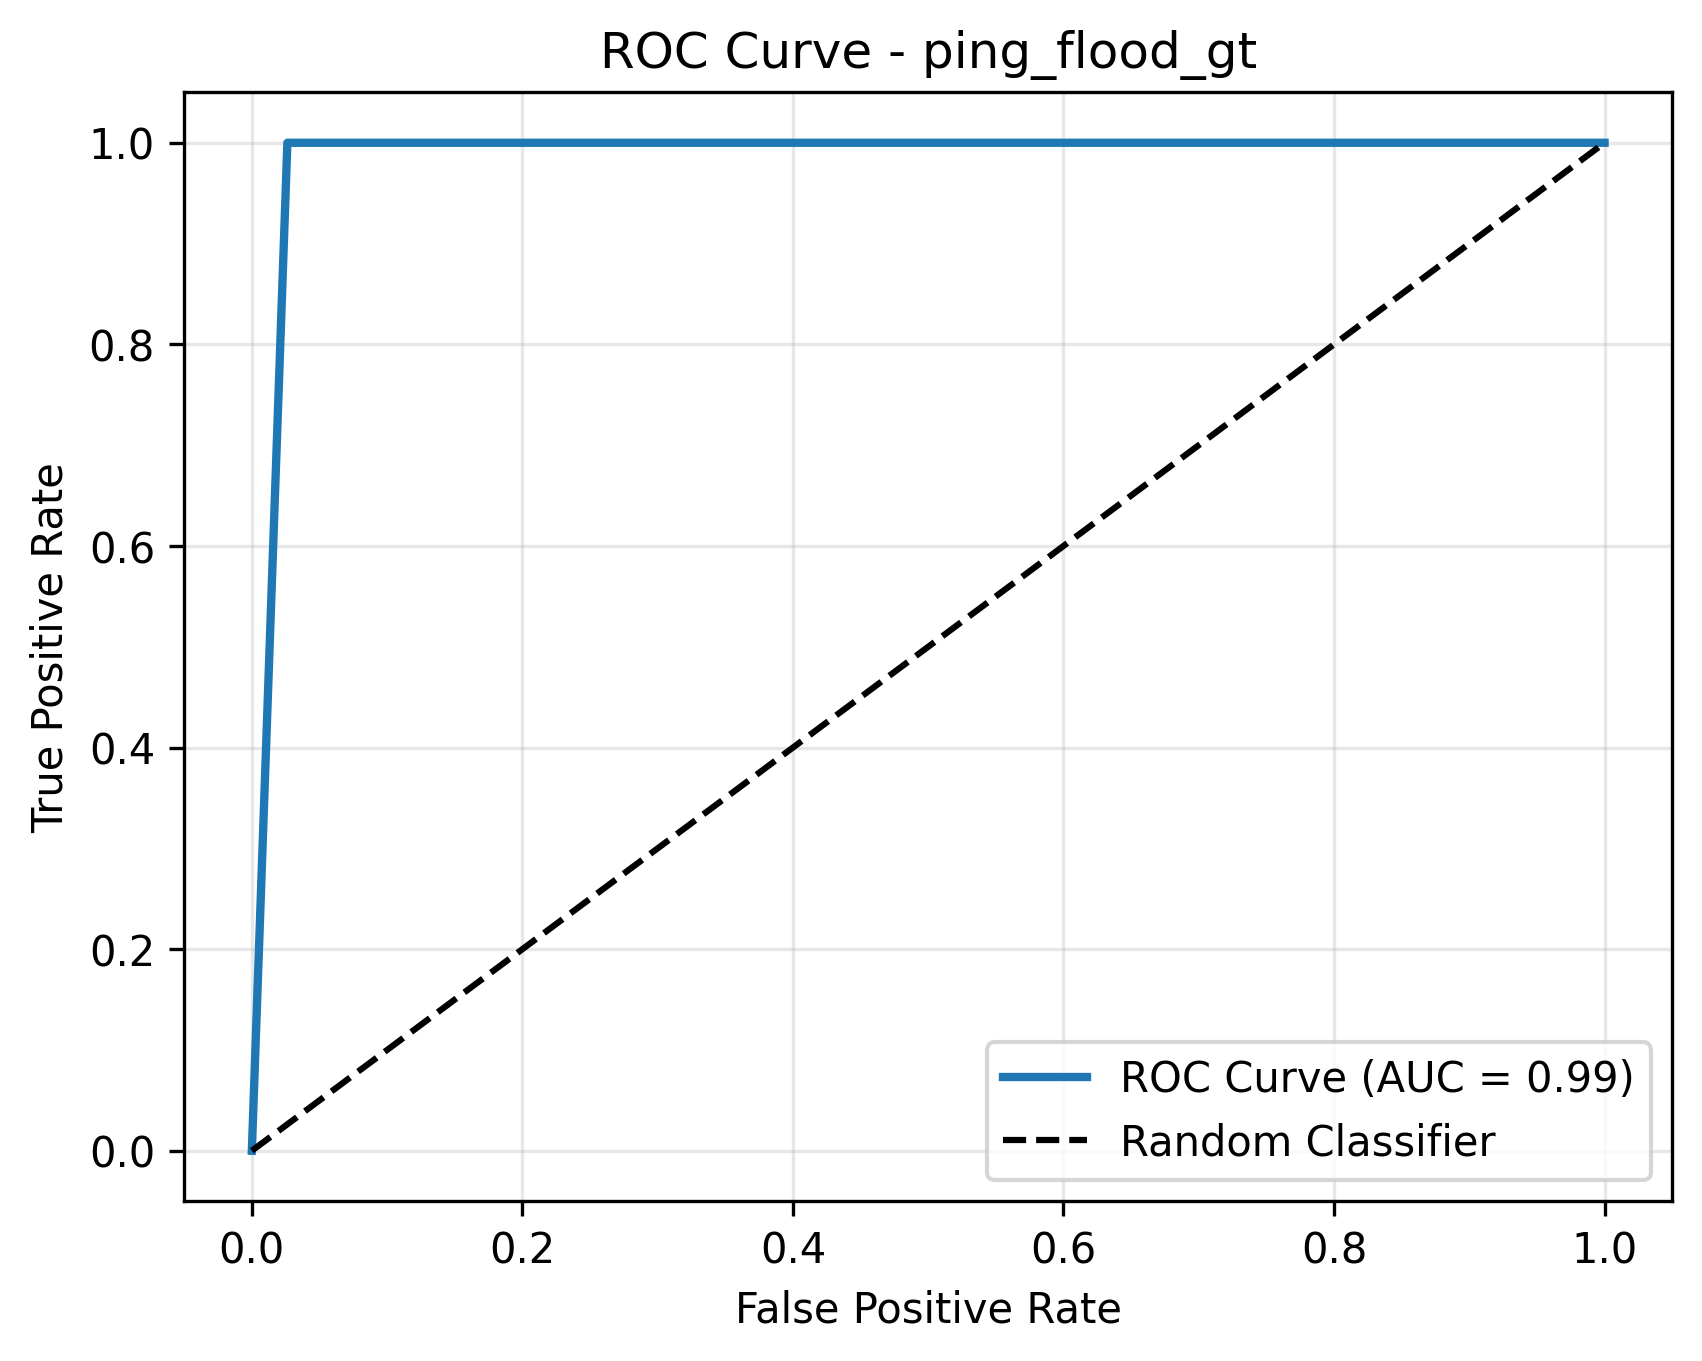
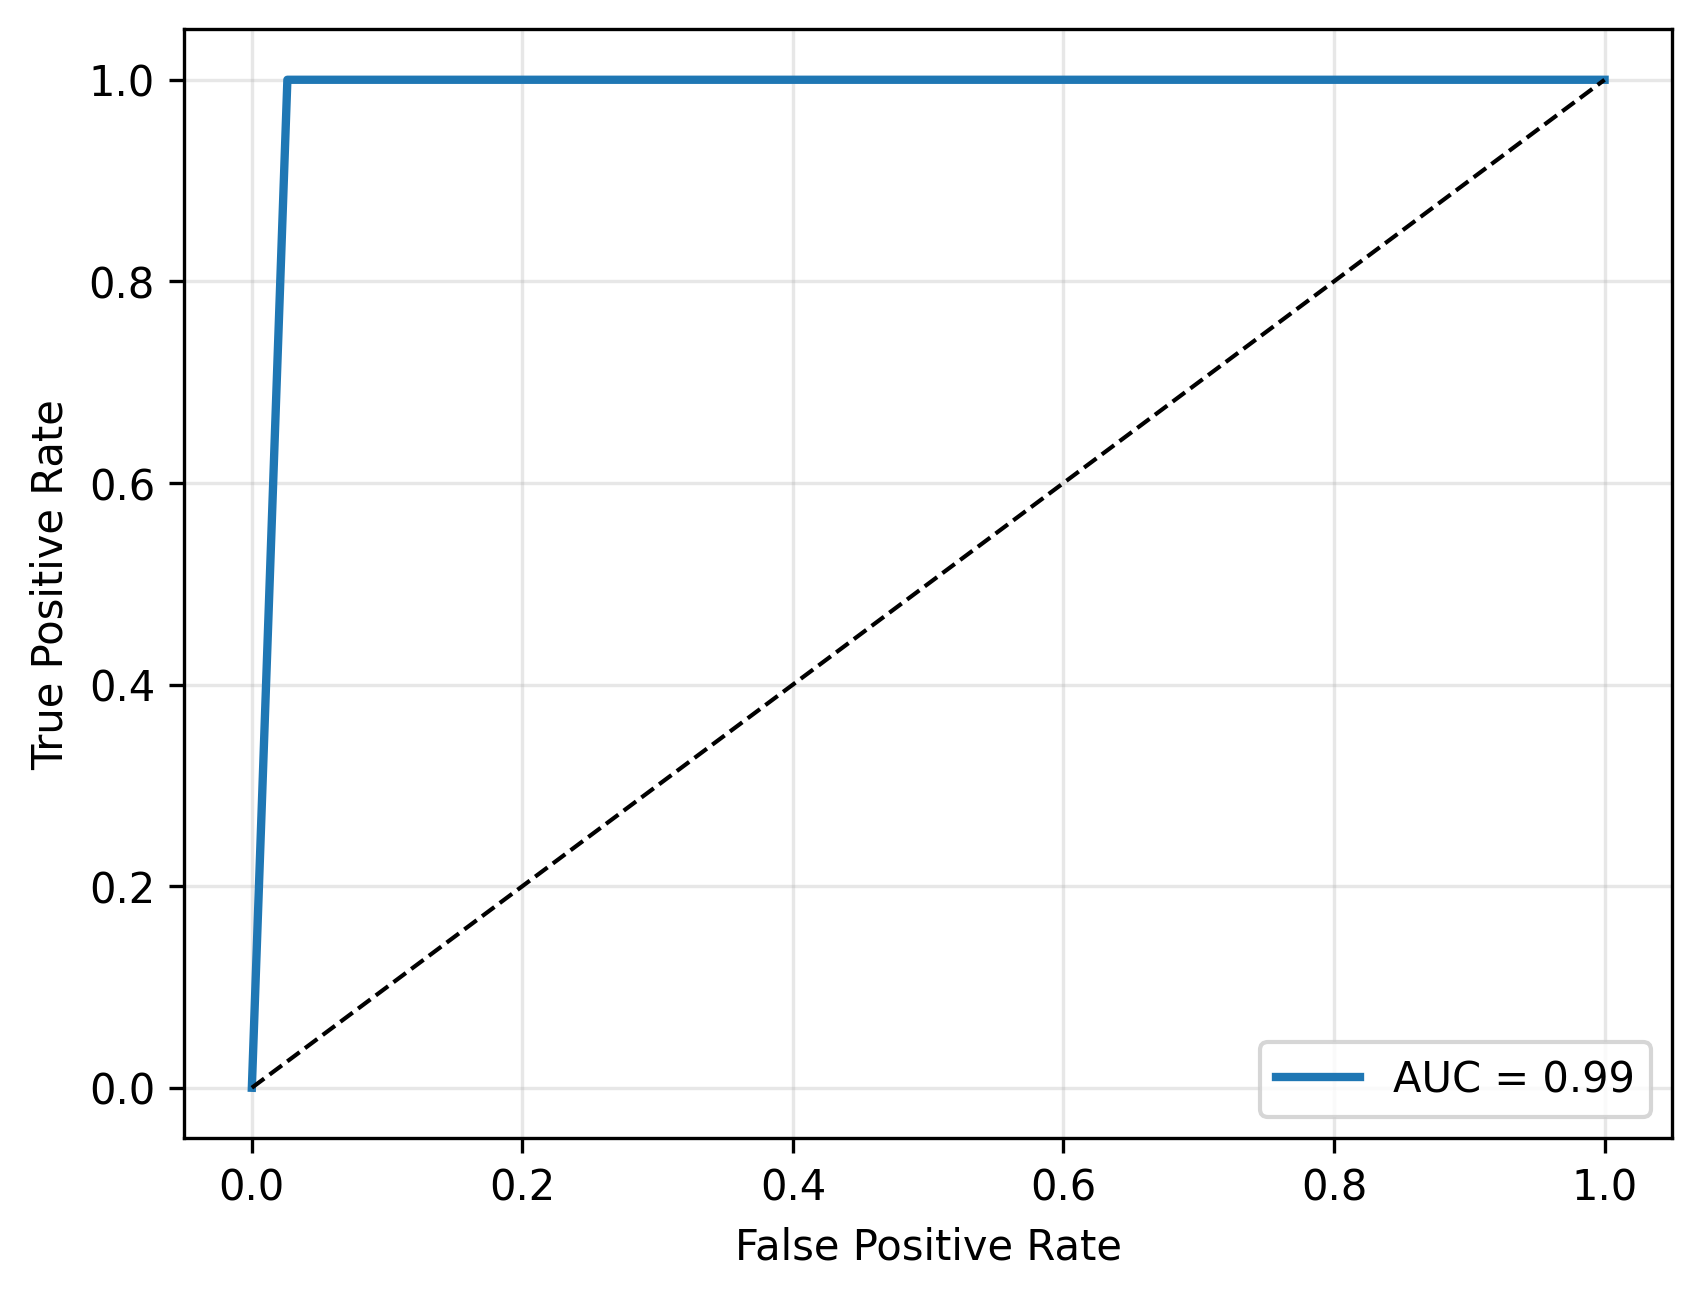
Evaluation

diff --git a/src/generate_side_by_side_comparisons.py b/src/generate_side_by_side_comparisons.py
@@ -50,17 +50,15 @@ def create_side_by_side_gt_comparison(ping_path, syn_path, output_dir):
     
     ax.set_xlabel('Performance Metrics', fontsize=13, weight='bold', labelpad=8)
     ax.set_ylabel('Percentage (%)', fontsize=13, weight='bold', labelpad=8)
-    ax.set_title('Ground Truth Performance Comparison: Ping Flood vs SYN Flood', 
-                 fontsize=14, weight='bold', pad=12)
+    # Remove title - keep only axis labels
     ax.set_xticks(x)
     ax.set_xticklabels(metrics, fontsize=12)
     ax.legend(fontsize=12, loc='lower right', framealpha=0.95)
     ax.set_ylim([0, 105])
     ax.grid(axis='y', alpha=0.3, linestyle='--')
     
-    # Add horizontal line at 95% for reference
+    # Add horizontal line at 95% for reference (without text label)
     ax.axhline(y=95, color='gray', linestyle=':', linewidth=1.5, alpha=0.5)
-    ax.text(3.7, 96, '95%', fontsize=10, color='gray', style='italic')
     
     plt.tight_layout()
     output_file = os.path.join(output_dir, 'side_by_side_GT_comparison.png')
@@ -107,17 +105,15 @@ def create_side_by_side_expert_comparison(ping_path, syn_path, output_dir):
     
     ax.set_xlabel('Performance Metrics', fontsize=13, weight='bold', labelpad=8)
     ax.set_ylabel('Percentage (%)', fontsize=13, weight='bold', labelpad=8)
-    ax.set_title('Expert-Validated Performance Comparison: Ping Flood vs SYN Flood', 
-                 fontsize=14, weight='bold', pad=12)
+    # Remove title - keep only axis labels
     ax.set_xticks(x)
     ax.set_xticklabels(metrics, fontsize=12)
     ax.legend(fontsize=12, loc='lower right', framealpha=0.95)
     ax.set_ylim([0, 105])
     ax.grid(axis='y', alpha=0.3, linestyle='--')
     
-    # Add horizontal line at 95% for reference
+    # Add horizontal line at 95% for reference (without text label)
     ax.axhline(y=95, color='gray', linestyle=':', linewidth=1.5, alpha=0.5)
-    ax.text(3.7, 96, '95%', fontsize=10, color='gray', style='italic')
     
     plt.tight_layout()
     output_file = os.path.join(output_dir, 'side_by_side_Expert_comparison.png')
@@ -168,7 +164,7 @@ def create_dual_side_by_side_comparison(ping_path, syn_path, output_dir):
                      ha='center', va='bottom', fontsize=8, weight='bold')
     
     ax1.set_ylabel('Percentage (%)', fontsize=13, weight='bold', labelpad=8)
-    ax1.set_title('(a) Ground Truth Evaluation', fontsize=14, weight='bold', pad=10)
+    # Remove title - keep only axis labels
     ax1.set_xticks(x)
     ax1.set_xticklabels(metrics, fontsize=12)
     ax1.legend(fontsize=12, loc='lower right', framealpha=0.95)
@@ -196,7 +192,7 @@ def create_dual_side_by_side_comparison(ping_path, syn_path, output_dir):
     
     ax2.set_xlabel('Performance Metrics', fontsize=13, weight='bold', labelpad=8)
     ax2.set_ylabel('Percentage (%)', fontsize=13, weight='bold', labelpad=8)
-    ax2.set_title('(b) Expert-Validated Evaluation', fontsize=14, weight='bold', pad=10)
+    # Remove title - keep only axis labels
     ax2.set_xticks(x)
     ax2.set_xticklabels(metrics, fontsize=12)
     ax2.legend(fontsize=12, loc='lower right', framealpha=0.95)
@@ -204,8 +200,7 @@ def create_dual_side_by_side_comparison(ping_path, syn_path, output_dir):
     ax2.grid(axis='y', alpha=0.3, linestyle='--')
     ax2.axhline(y=95, color='gray', linestyle=':', linewidth=1.5, alpha=0.5)
     
-    plt.suptitle('Performance Comparison: Ping Flood vs SYN Flood', 
-                 fontsize=15, weight='bold', y=0.995)
+    # Remove overall title - keep only axis labels
     plt.tight_layout()
     
     output_file = os.path.join(output_dir, 'dual_side_by_side_comparison.png')

diff --git a/src/run_all_evaluations.py b/src/run_all_evaluations.py
@@ -152,7 +152,9 @@ def save_confusion_matrix(y_true, y_pred, output_prefix):
     cm = confusion_matrix(y_true, y_pred)
     disp = ConfusionMatrixDisplay(confusion_matrix=cm, display_labels=["No Attack", "Ping Flood"])
     disp.plot(cmap=plt.cm.Blues)
-    plt.title(f"Confusion Matrix - {output_prefix}")
+    
+    # Remove title - keep only axis labels
+    plt.title("")
     output_path = os.path.join("ping_evaluation_results", f"{output_prefix}_confusion_matrix.png")
     plt.savefig(output_path, dpi=300, bbox_inches='tight')
     plt.close()
@@ -165,11 +167,11 @@ def save_roc_curve(y_true, y_pred, output_prefix):
     roc_auc = auc(fpr, tpr)
     
     plt.figure()
-    plt.plot(fpr, tpr, label=f"ROC Curve (AUC = {roc_auc:.2f})", linewidth=2)
-    plt.plot([0, 1], [0, 1], "k--", label="Random Classifier")
+    plt.plot(fpr, tpr, label=f"AUC = {roc_auc:.2f}", linewidth=2)
+    plt.plot([0, 1], [0, 1], "k--", linewidth=1)
     plt.xlabel("False Positive Rate")
     plt.ylabel("True Positive Rate")
-    plt.title(f"ROC Curve - {output_prefix}")
+    # Remove title - keep only axis labels
     plt.legend(loc="lower right")
     plt.grid(True, alpha=0.3)
     output_path = os.path.join("ping_evaluation_results", f"{output_prefix}_roc_curve.png")

diff --git a/src/run_syn_evaluations.py b/src/run_syn_evaluations.py
@@ -294,7 +294,8 @@ def save_confusion_matrix(y_true, y_pred, output_dir):
     cm = confusion_matrix(y_true, y_pred)
     disp = ConfusionMatrixDisplay(confusion_matrix=cm, display_labels=["No Attack", "SYN Flood"])
     disp.plot(cmap=plt.cm.Blues)
-    plt.title(f"Confusion Matrix - SYN Flood Detection")
+    # Remove title - keep only axis labels
+    plt.title("")
     os.makedirs(output_dir, exist_ok=True)
     output_path = os.path.join(output_dir, "confusion_matrix.png")
     plt.savefig(output_path, dpi=300, bbox_inches='tight')
@@ -308,11 +309,11 @@ def save_roc_curve(y_true, y_pred, output_dir):
     roc_auc = auc(fpr, tpr)
     
     plt.figure()
-    plt.plot(fpr, tpr, label=f"ROC Curve (AUC = {roc_auc:.2f})", linewidth=2)
-    plt.plot([0, 1], [0, 1], "k--", label="Random Classifier")
+    plt.plot(fpr, tpr, label=f"AUC = {roc_auc:.2f}", linewidth=2)
+    plt.plot([0, 1], [0, 1], "k--", linewidth=1)
     plt.xlabel("False Positive Rate")
     plt.ylabel("True Positive Rate")
-    plt.title(f"ROC Curve - SYN Flood Detection")
+    # Remove title - keep only axis labels
     plt.legend(loc="lower right")
     plt.grid(True, alpha=0.3)
     os.makedirs(output_dir, exist_ok=True)

diff --git a/src/evaluate_rag.py b/src/evaluate_rag.py
@@ -338,7 +338,7 @@ for fname_no_ext, true_label in ground_truth.items():
 cm = confusion_matrix(y_true, y_pred)
 disp = ConfusionMatrixDisplay(confusion_matrix=cm, display_labels=["No Attack", "Ping Flood"])
 disp.plot(cmap=plt.cm.Blues)
-plt.title("Confusion Matrix")
+plt.title("")
 plt.show()
 
 # ROC curve and AUC
@@ -346,11 +346,10 @@ fpr, tpr, _ = roc_curve(y_true, y_pred)
 roc_auc = auc(fpr, tpr)
 
 plt.figure()
-plt.plot(fpr, tpr, label=f"ROC Curve (AUC = {roc_auc:.2f})")
+plt.plot(fpr, tpr, label=f"AUC = {roc_auc:.2f}")
 plt.plot([0, 1], [0, 1], "k--")
 plt.xlabel("False Positive Rate")
 plt.ylabel("True Positive Rate")
-plt.title("Receiver Operating Characteristic (ROC) Curve")
 plt.legend(loc="lower right")
 plt.grid(True)
 plt.show()
